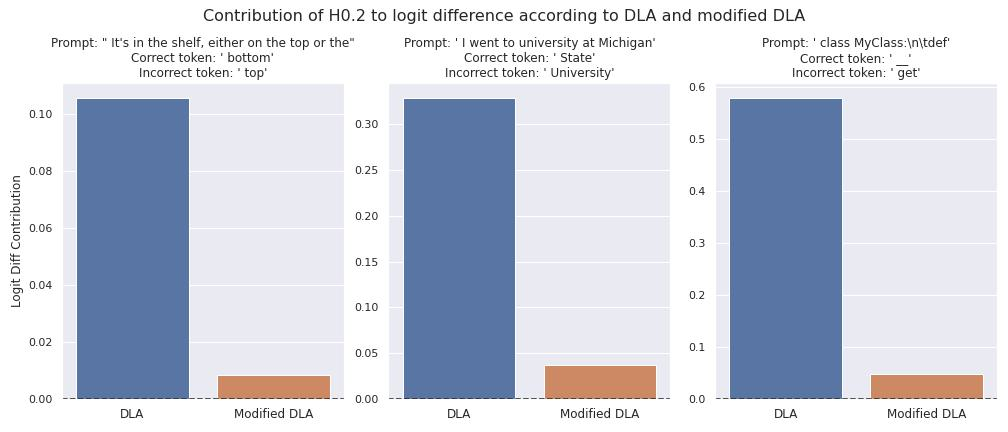
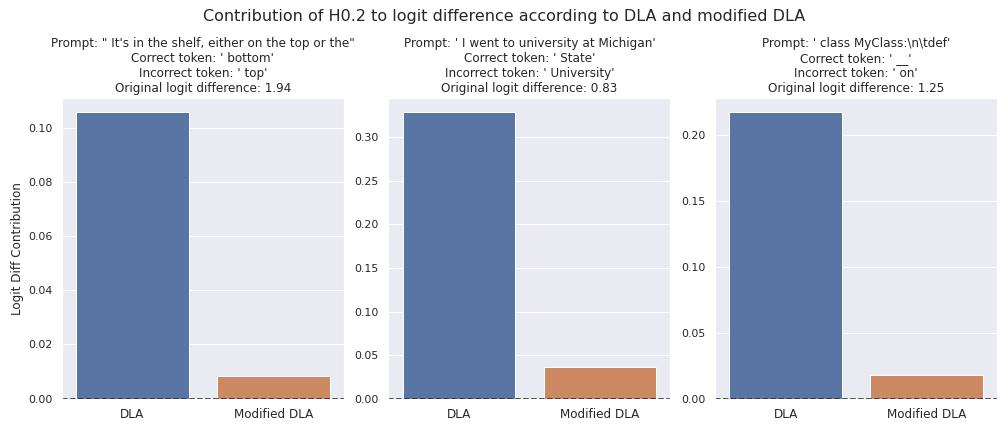
fix top2 token in fig9

diff --git a/figure_recreation/fig9new_ori_and_modified_DLA_barplots.py b/figure_recreation/fig9new_ori_and_modified_DLA_barplots.py
@@ -35,6 +35,7 @@ torch.set_grad_enabled(False)
 device = "cpu"
 
 IPSUM = "Lorem Ipsum is simply dummy text of the printing and typesetting industry. Lorem Ipsum has been the industry's standard dummy text ever since the 1500s, when an unknown printer took a galley of type and scrambled it to make a type specimen book. It has survived not only five centuries, but also the leap into electronic typesetting, remaining essentially unchanged. It was popularised in the 1960s with the release of Letraset sheets containing Lorem Ipsum passages, and more recently with desktop publishing software like Aldus PageMaker including versions of Lorem Ipsum."
+# IPSUM = ""
 
 FIG_FILEPATH = "figs/fig9new_DLA_barplots.jpg"
 
@@ -65,8 +66,8 @@ examples = [
         # "text": "class MyClass:\n\tdef",
         "text": IPSUM + " class MyClass:\n\tdef",
         "correct": " __",
-        # "incorrect": " on",
-        "incorrect": " get",
+        # "incorrect": " get",
+        "incorrect": " on",
     },
 ]
 
@@ -120,11 +121,20 @@ def get_DLA_logit_diff_attn_head(example, model, layer, head, modified=False):
     return calc_logit_diff(attn_head_out_normed)
 
 # %%
+logit_diffs = []
 logit_diffs_dla = []
 logit_diffs_dla_modified = []
 
 layer, head = 0, 2
 for example in examples:
+    # Get logit diffs
+    token_ids = model.to_tokens(example["text"])
+    correct_token_id = model.to_single_token(example["correct"])
+    incorrect_token_id = model.to_single_token(example["incorrect"])
+    logits = model(token_ids)[0, -1]
+    logit_diff = (logits[correct_token_id] - logits[incorrect_token_id]).item()
+    logit_diffs.append(logit_diff)
+
     # Contribution to logit diff of H0.2, according to DLA
     logit_diffs_dla.append(
         get_DLA_logit_diff_attn_head(example, model, layer, head, modified=False).item()
@@ -166,7 +176,8 @@ for i in range(len(examples)):
         # f"Prompt: {repr(examples[i]['text'])}\n"
         f"Prompt: {repr(examples[i]['text'].replace(IPSUM, ''))}\n"
         f"Correct token: {repr(examples[i]['correct'])}\n"
-        f"Incorrect token: {repr(examples[i]['incorrect'])}"
+        f"Incorrect token: {repr(examples[i]['incorrect'])}\n"
+        f"Original logit difference: {logit_diffs[i]:.2f}"
     )
 
 fig.suptitle(
